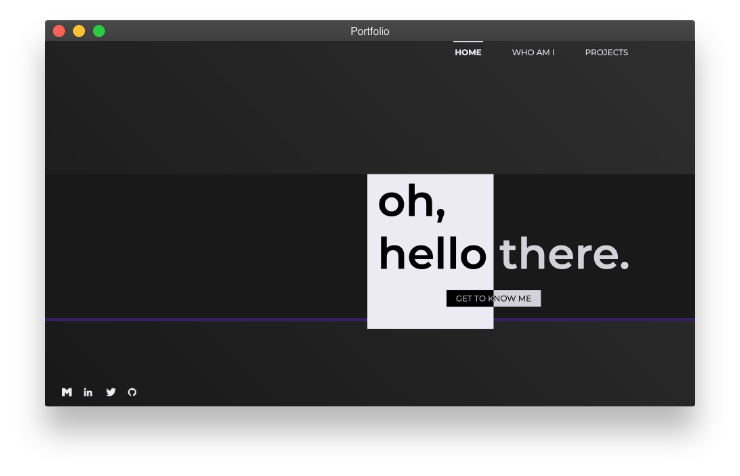
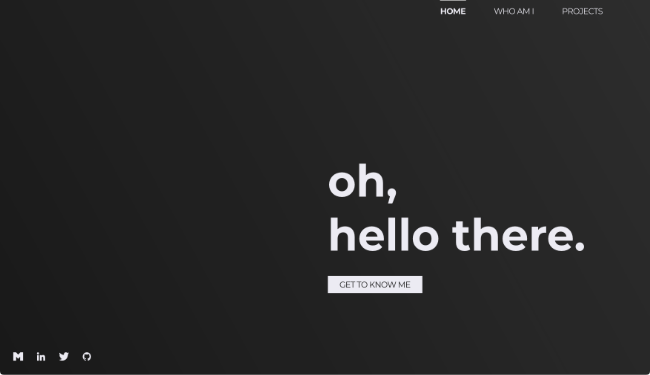
Handle mobile version and rest of design.

diff --git a/src/components/Project_card.vue b/src/components/Project_card.vue
@@ -1,5 +1,7 @@
 <template>
   <div class="project-card">
+    <div class="line-horizontal"></div>
+    <div class="line-vertical"></div>
     <img class="project-card__image" v-bind:src="project.img" />
     <div class="project-card__description">
       <h3>{{ project.title }}</h3>
@@ -43,8 +45,50 @@ export default {
   display: flex;
   flex-direction: row;
   justify-content: center;
+  position: relative;
+  box-shadow: 10px 5px 5px $black;
 
-  img {
+  .line-horizontal::before {
+    content: "";
+    position: absolute;
+    left: 0;
+    top: -10px;
+    width: calc(100% + 10px);
+    height: 2px;
+    background: $white;
+  }
+
+  .line-horizontal::after {
+    content: "";
+    position: absolute;
+    left: 0;
+    top: -20px;
+    width: calc(100% + 20px);
+    height: 2px;
+    background: $white;
+  }
+
+  .line-vertical::before {
+    content: "";
+    position: absolute;
+    right: -10px;
+    top: -10px;
+    height: calc(60% + 10px);
+    width: 2px;
+    background: $white;
+  }
+
+  .line-vertical::after {
+    content: "";
+    position: absolute;
+    right: -20px;
+    top: -20px;
+    height: calc(80% + 20px);
+    width: 2px;
+    background: $white;
+  }
+
+  &__image {
     @include mediaSmartfon {
       display: none;
     }
@@ -68,10 +112,11 @@ export default {
 
   &__description {
     margin: auto 0 auto 30px;
+    z-index: 2;
 
     @include mediaSmartfon {
       width: 280px;
-      margin: 30px 0 0 0;
+      margin: 10px 15px;
     }
 
     h3 {
@@ -87,24 +132,36 @@ export default {
       margin: 40px 0 0 0;
 
       @include mediaSmartfon {
-        text-align: justify;
+        text-align: center;
       }
     }
 
     .project-card__tags {
       margin-top: 10px;
-      margin-bottom: 50px;
+      margin-bottom: 45px;
+
+      @include mediaSmartfon {
+        display: flex;
+        flex-direction: row;
+        justify-content: center;
+      }
     }
 
     .project-card__buttons {
+      .btn {
+        margin: 5px 20px 5px 0;
+      }
+
       @include mediaSmartfon {
-        justify-content: center;
+        display: flex;
+        flex-direction: column;
+        align-items: center;
 
         .btn {
           margin: 5px !important;
 
           &:first-child {
-            margin-bottom: 25px !important;
+            margin-bottom: 15px !important;
           }
         }
       }

diff --git a/src/views/Projects.vue b/src/views/Projects.vue
@@ -40,7 +40,7 @@ export default {
             },
           ],
         },
-        {
+        /*         {
           title: 'HomePage',
           description:
             'An browser extension which replace default homepage. Build to cover my needs when starting browsering an internet.',
@@ -58,7 +58,7 @@ export default {
               link: '',
             },
           ],
-        },
+        }, */
       ],
     };
   },
@@ -70,31 +70,10 @@ export default {
 @import "../configs/_glitch";
 
 .project {
-  .view {
-    height: unset !important;
-  }
-
-  @include mediaSmartfon {
-    margin-bottom: 100px;
-  }
-
   &__cards {
     display: flex;
     flex-direction: column;
-
-    .project-card {
-      margin: 100px 0;
-
-      @include mediaSmartfon {
-        margin: 30px 0;
-
-        &__tags {
-          display: flex;
-          flex-direction: row;
-          justify-content: center;
-        }
-      }
-    }
+    justify-content: center;
   }
 }
 </style>

diff --git a/src/views/WhoAmI.vue b/src/views/WhoAmI.vue
@@ -91,6 +91,10 @@ export default {
     .whoami__description {
       margin: auto 100px auto 0;
 
+      @include mediaSmartfon {
+        margin: auto 0;
+      }
+
       h3 {
         position: relative;
         display: inline-block;
@@ -141,7 +145,7 @@ export default {
           }
 
           a {
-            margin: 0 0 20px 0;
+            margin: 0 0 15px 0;
           }
         }
       }

diff --git a/src/App.vue b/src/App.vue
@@ -278,11 +278,19 @@ header {
   height: calc(var(--vh, 1vh) * 5);
   padding-left: 140px;
   display: inline-block;
+
+  @include mediaSmartfon {
+    padding-left: 30px;
+  }
 }
 
 .header--bg {
     background: $purple-opacity;
     width: 105%;
     text-align: center;
+
+    @include mediaSmartfon {
+      margin: 30px 0;
+    }
   }
 </style>
